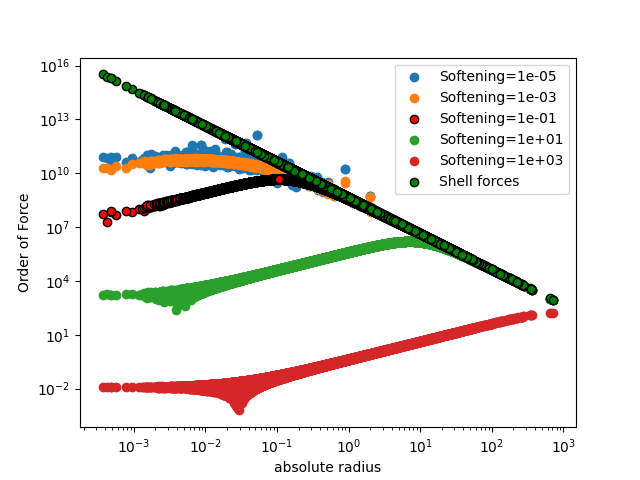
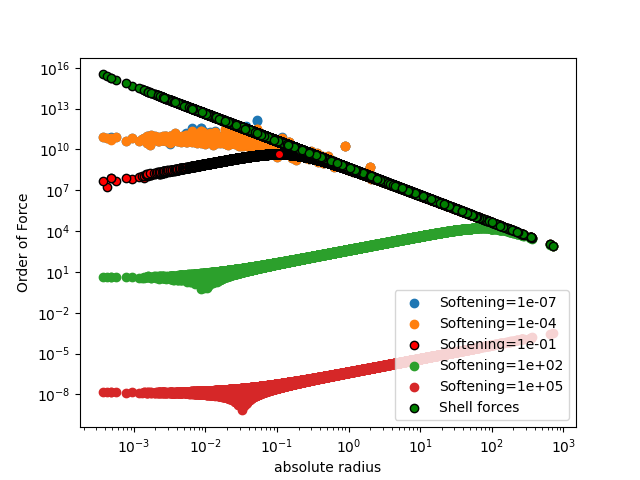
These were the last changes before the exam

diff --git a/n_body_project/main.py b/n_body_project/main.py
@@ -1,7 +1,5 @@
 # libraries
 
-# TODO put failsaves in all function to make sure all particles are processed and in the right order / index
-
 # my functions
 from particle_density import *
 from n_body_forces import *
@@ -19,7 +17,6 @@ data = np.loadtxt("n_body_project/data/data.txt")
 # extract the data
 particle_number, mass, x_cord, y_cord, z_cord, vx_vel, vy_vel, vz_vel, softening, potential = data_extraction(data)
 
-# all data in Planck units
 # ------------------------------------------------------------------------------
 
 # Task 1: Step 1
@@ -29,11 +26,6 @@ particle_density_plot = plot_density_profile(x_cord, y_cord, z_cord, 50, mass)
 particle_density_plot.savefig("n_body_project/plots/density_profile.png")
 # plt.show()
 plt.close(particle_density_plot)
-
-# test time integration
-#leap_frog(x_cord, y_cord, z_cord, vx_vel, vy_vel, vz_vel, mass, 1, 1)
-
-#repetitive_leapfog(x_cord, y_cord, z_cord, vx_vel, vy_vel, vz_vel, mass, 1, 10, 2)
 """
 # ------------------------------------------------------------------------------
 # Task 1: Step 2
@@ -48,9 +40,10 @@ pos = particles_in_hmr(hmr, x_cord, y_cord, z_cord)
 mean_int = mean_inter_particle_separation(pos)
 
 # get values of different order of magnitude for softening
-s = softening_values(mean_int, 9, 3)
-print(s)
+s = softening_values(mean_int, 7, 3)
+
 """
+
 # calculate the forces brute force and plot their dependence on the softening
 soft_plot, rad_plot = softening_plot(s, particle_number, mean_int, mass, x_cord, y_cord, z_cord, softening)
 soft_plot.savefig("n_body_project/plots/softening.png")
@@ -85,7 +78,7 @@ print(f"relaxation time: {rel_time}, crossing time: {cross_time}")
 # -------------------------------------------------------------------------------
 # Task 2: Tree code
 
-#angles = opening_angles(0.8, 1, 2)
+#angles = opening_angles(0.3, 0.9, 3)
 
 #tree_plots = repetitive_tree_code(x_cord, y_cord, z_cord, mass, particle_number, angles)
 

diff --git a/n_body_project/n_body_forces.py b/n_body_project/n_body_forces.py
@@ -151,12 +151,6 @@ def particles_in_hmr(half_mass_radius, x_coordinate, y_coordinate, z_coordinate)
 
 	# get a list of the particles within the half total_mass radius
 	# get that for all coordinates
-	# is the complete radius, that is relevant, not the single coordinates
-	# get the radius for each particle and sort them
-	x_coordinate = np.sort(x_coordinate)
-	y_coordinate = np.sort(y_coordinate)
-	z_coordinate = np.sort(z_coordinate)
-
 	radii = np.sqrt(x_coordinate ** 2 + y_coordinate ** 2 + z_coordinate ** 2)
 
 	positions = np.zeros((len(x_coordinate), 3))
@@ -205,7 +199,6 @@ def mean_inter_particle_separation(positions):
 			sum_dist_arr[i] += distance
 
 	sum_dist = np.sum(sum_dist_arr)
-	# QUESTION
 	# to get now the mean distance, divide by the number of distances summed up in total
 	# so the number of particles times the number of interactions
 	mean_dist = sum_dist / (number_part * (number_part - 1))

diff --git a/n_body_project/time_integration.py b/n_body_project/time_integration.py
@@ -25,7 +25,7 @@ def leap_frog(x_cord, y_cord, z_cord, vel_x, vel_y, vel_z, masses, softening, h)
 	r_step_half_z = z_cord + 0.5 * h * vel_z
 
 	# calculate all the accelerations at once
-	acceleration = direct_force_calculation(masses, r_step_half_x, r_step_half_y, r_step_half_z, softening)[2]
+	abs_f, abs_r, acceleration = direct_force_calculation(masses, r_step_half_x, r_step_half_y, r_step_half_z, softening)
 
 	# kick motion: calculate the new velocity
 	v_step_one_x = vel_x + h * acceleration[0]
@@ -76,7 +76,7 @@ def repetitive_leapfog(x_cord, y_cord, z_cord, vel_x, vel_y, vel_z, masses, soft
 		print(f"done {i}")
 
 		# TODO return something for plotting
-	return x_cord, y_cord, z_cord
+	return x_cord, y_cord, z_cord, vel_x, vel_y, vel_z
 
 
 def relaxation_magnitude(x_cord, y_cord, z_cord, vel_x, vel_y, vel_z, masses, softening, t_cross, t_relax):

diff --git a/n_body_project/particle_density.py b/n_body_project/particle_density.py
@@ -186,10 +186,6 @@ def plot_density_profile(x_cord, y_cord, z_cord, bin_number, masses):
 	# calculate the density expected by the Hernquist profile
 	expected_density_per_bin, bin_radii = hernquist_fit(bin_edges, masses, shell_density_measured, sigma=abs_error)
 
-	# calculate the comparison error
-	abs_error_comp, rel_error_comp, lambd = error_measured_vs_expected(shell_density_measured, expected_density_per_bin,
-																	   len(x_cord), shell_masses, shell_volumes)
-
 	# plot everything
 
 	fig, ax = plt.subplots()

diff --git a/README.md b/README.md
@@ -1,4 +1,2 @@
 This repository contains the code for the N-Body project of the course
 AST 245 Computational Astrophysics at the UZH.
-
-Currently Work in Progress
